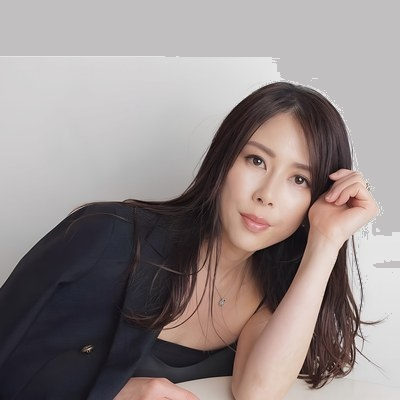
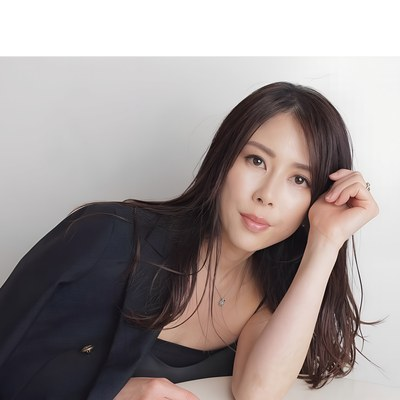
新井佐奈写真：元画像に戻しCSSでグレー背景＋下寄せに変更

diff --git a/index.html b/index.html
@@ -718,7 +718,7 @@
     .speaker-photo-1 { background-image: url('images/speaker_yamazaki.jpg'); }
     .speaker-photo-2 { background-image: url('images/speaker_nakayi.jpg'); }
     .speaker-photo-3 { background-image: url('images/speaker_takimoto.jpg'); }
-    .speaker-photo-4 { background-image: url('images/speaker_arai.jpg'); }
+    .speaker-photo-4 { background-image: url('images/speaker_arai.jpg'); background-color: #c1bfc0; background-position: center bottom; }
     .speaker-photo-5 { background-image: url('images/speaker_mori.jpg'); }
     .speaker-photo-6 { background-image: url('images/speaker_kato.jpg'); }
     .speaker-photo-7 { background-image: url('images/speaker_ueda.jpg'); background-size: 85%; background-position: center 10%; }
